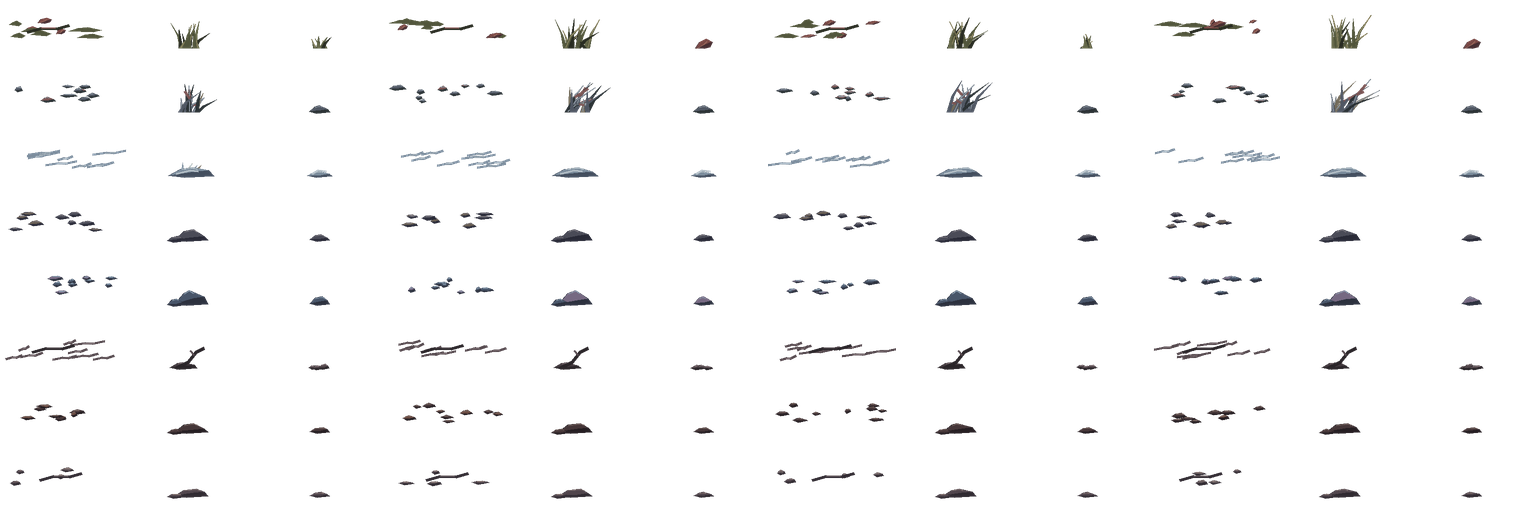
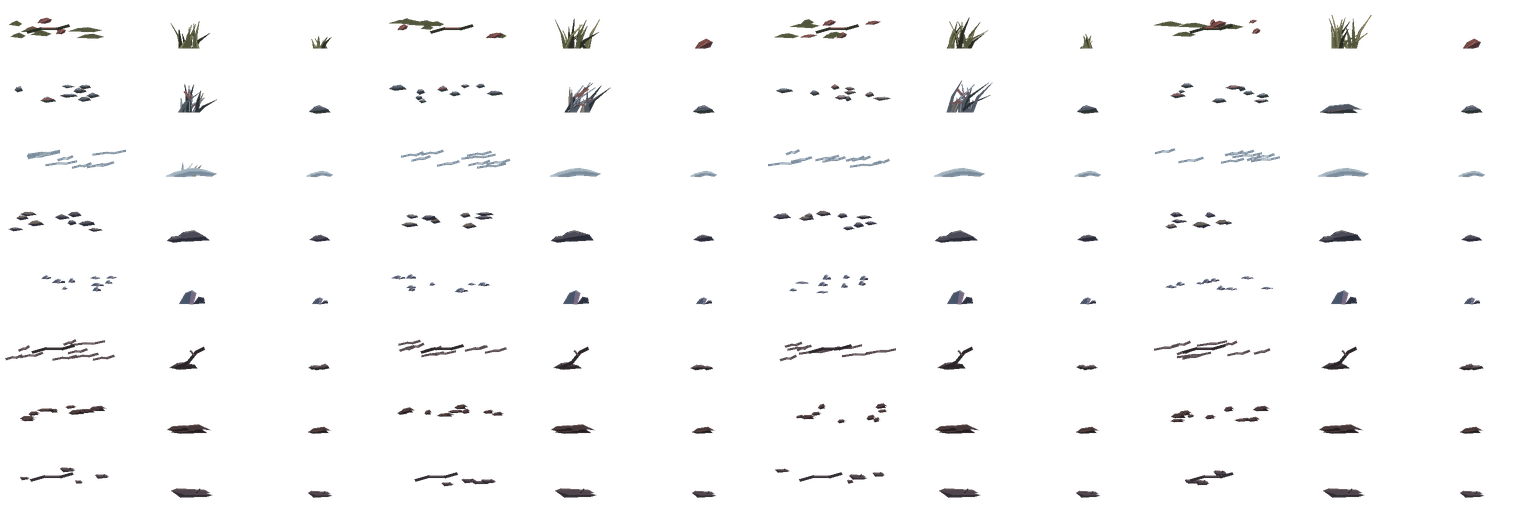
Refine mineral silhouettes and verify reactions on ordinary solid ground

diff --git a/tests/browser-surface-dressing.js b/tests/browser-surface-dressing.js
@@ -6,7 +6,7 @@ const path=require('node:path');
 const {chromium}=require('playwright');
 const root=path.resolve(__dirname,'..'),output=path.join(root,'test-results/surface');
 const mime={'.html':'text/html','.js':'text/javascript','.webp':'image/webp','.png':'image/png',
-  '.ttf':'font/ttf','.json':'application/json','.svg':'image/svg+xml'};
+  '.css':'text/css','.ttf':'font/ttf','.json':'application/json','.svg':'image/svg+xml'};
 const server=http.createServer(async(req,res)=>{
   const url=new URL(req.url,'http://localhost');
   const file=path.resolve(root,'.'+(url.pathname==='/'?'/index.html':url.pathname));
@@ -26,8 +26,11 @@ async function exercise(browser,renderer,width,height,enabled){
     // Same release, same inputs. The control removes only this optional visual module.
     if(!enabled)await page.route('**/surface-dressing.js*',route=>route.fulfill({body:'',contentType:'text/javascript'}));
     await page.goto('http://127.0.0.1:'+server.address().port+'/?seed=33');
-    await page.waitForFunction(()=>window.GRIM_FRONTEND?.ready&&
-      window.grimRun?.scene.scenes[0]?.motionArt?.runReady,null,{timeout:90000});
+    await page.waitForFunction(()=>{
+      const s=window.grimRun?.scene.scenes[0];
+      return window.GRIM_FRONTEND?.ready&&s?.visuals?.reaperReady&&s.visuals.loaded&&
+        s.motionArt?.runReady&&s.motionArt.forwardReady&&s.motionArt.airCutReady;
+    },null,{timeout:90000});
     const version=await page.evaluate(()=>{
       const g=grimRun,s=g.scene.scenes[0];s.startRun();g.loop.sleep();
       clearInterval(s.loopWatchdogId);s.sys.sceneUpdate=()=>{};
@@ -36,15 +39,29 @@ async function exercise(browser,renderer,width,height,enabled){
     assert.equal(version,renderer==='webgl'?2:1);
     const report={states:[],regions:[],timing:null};
     const tag=renderer+'-'+width;
-    for(const distance of [0,1500,3000,5500,6500,7500,8500,11000]){
+    for(const distance of [0,1500,2500,5500,6500,7500,8500,11000]){
       if(distance)await page.evaluate(m=>{
         const s=grimRun.scene.scenes[0];s.godMode=true;s.state='teleportConfirm';
         if(!s.teleportForTesting(m))throw Error('Could not reach '+m);
+        // Some practice markers land on a one-way island. Review the nearest actual trail.
+        const begin=s.player.x;let x=begin;
+        const runway=x=>[0,80,160,240,320,400,480,560,640,720].every(dx=>
+          s.terrain.sectionAt(x+dx)?.kind==='ground');
+        while(x<begin+4200&&!runway(x))x+=40;
+        if(!runway(x))throw Error('No solid review stretch at '+m);
+        s.player.x=x;s.player.y=s.terrain.groundAt(x);
+        s.distance=(x-s.startX)/GRIM_CONFIG.pxPerMeter;
+        s.cameraX=x-s.width*GRIM_CONFIG.reaperXRatio;s.cameraY=s.player.y-s.groundY;
+        s.syncWorldScroll();s.drawScene();
       },distance);
       await page.waitForFunction(()=>{
         const s=grimRun.scene.scenes[0];return s.terrainMaterialIds.has((s.distance<900?'forest':s.distance<2300?'foothills':s.distance<5000?'tundra':s.distance<6000?'caves':
            s.distance<7000?'crystals':s.distance<8000?'ashlands':s.distance<9999?'lava':'boss'));
       },null,{timeout:30000});
+      if(enabled){
+        await page.evaluate(()=>{const s=grimRun.scene.scenes[0];s.drawScene();grimRun.step(performance.now(),0);});
+        await page.screenshot({path:path.join(output,tag+'-'+distance+'.png')});
+      }
       const frames=await page.evaluate(()=>{
         const s=grimRun.scene.scenes[0],d=s.surfaceDressing;
         const states=[],ids=new Set();let maxVisible=0,grass=0,snow=0,loose=0;
@@ -68,9 +85,10 @@ async function exercise(browser,renderer,width,height,enabled){
         return {states,region:{ids:[...ids],maxVisible,grass,loose,snow,slots:d?.slots.length||0}};
       });
       report.states.push(...frames.states);report.regions.push(frames.region);
-      if(enabled)await page.screenshot({path:path.join(output,tag+'-'+distance+'.png')});
+
     }
     if(enabled){
+      console.log(tag+' materials',JSON.stringify(report.regions));
       assert.equal(new Set(report.regions.flatMap(r=>r.ids)).size,8);
       assert(report.regions[0].grass>0,'Forest contact bends grass');
       assert(report.regions[2].snow>0,'Tundra kicks existing snow');
@@ -99,6 +117,19 @@ async function exercise(browser,renderer,width,height,enabled){
           await page.screenshot({path:path.join(output,'forest-'+String(i).padStart(2,'0')+'.png')});
         }
       }
+      const lifecycle=await page.evaluate(()=>{
+        const s=grimRun.scene.scenes[0],d=s.surfaceDressing;
+        s.startRun();grimRun.loop.sleep();s.setGodMode(true);
+        for(let i=0;i<255;i++)s.update(0,34);
+        const rewound=s.rewind();for(let i=0;i<100&&s.state==='rewinding';i++)s.update(0,34);
+        const restored=s.state==='playing';
+        const group=s.terrain.sequences[0];s.player.x=group.startX+40;
+        s.player.y=s.terrain.anchorAt(s.player.x)+500;s.rescueFromAbyss();s.drawScene();
+        const gapClear=d.slots.every(slot=>!slot.patch||s.terrain.sectionAt(slot.patch.frontX)?.kind==='ground');
+        const didFall=s.state==='respawning';s.finishAbyssRespawn();
+        return {rewound,restored,gapClear,didFall,recovered:s.state==='playing'};
+      });
+      assert(Object.values(lifecycle).every(Boolean),JSON.stringify(lifecycle));
       await page.emulateMedia({reducedMotion:'reduce'});
       const quiet=await page.evaluate(()=>{
         const s=grimRun.scene.scenes[0];s.startRun();grimRun.loop.sleep();

diff --git a/tests/browser-biome-midground.js b/tests/browser-biome-midground.js
@@ -312,8 +312,12 @@ async function parity(browser) {
     });
   });
   // Both builds use the original far plate so this remains a pixel check of the Forest renderer.
-  const first = await use({routes: page => page.route('**/biomes/forest-ravine-v1.webp',
-    route => route.fulfill({path: path.join(root, 'assets/visuals/biomes/forest.webp'), contentType: 'image/webp'}))}, forest);
+  const first = await use({routes: async page => {
+    // The accepted reference predates the surface pass. Compare the midground alone.
+    await page.route('**/surface-dressing.js*', route => route.fulfill({body: '', contentType: 'text/javascript'}));
+    await page.route('**/biomes/forest-ravine-v1.webp',
+      route => route.fulfill({path: path.join(root, 'assets/visuals/biomes/forest.webp'), contentType: 'image/webp'}));
+  }}, forest);
   const old = await use({baseline: true}, forest);
   for (const [i, frame] of first.entries()) {
     writeFrame(path.join(outputs, 'forest-current-' + i + '.png'), frame);

diff --git a/assets/visuals/surface-dressing.js b/assets/visuals/surface-dressing.js
@@ -52,6 +52,7 @@
         const row=BIOMES.indexOf(id);
         if(row<0||sample(cell,193)>=DENSITY[row])continue;
         let variant=Math.floor(sample(cell,361)*4);
+        if(id==='foothills'&&sample(cell,61)<Math.min(.83,Math.max(0,(m-1050)/1450)))variant=3;
         // Frozen stalks only occur at the lower snow line.
         if(id==='tundra'&&m>2570&&variant===0)variant=2;
         const size=.80+.33*sample(cell,563);
@@ -99,7 +100,7 @@
       for(const slot of this.slots){
         const patch=slot.patch;
         if(!patch)continue;
-        const grass=patch.id==='forest'||patch.id==='foothills';
+        const grass=patch.id==='forest'||(patch.id==='foothills'&&patch.variant!==3);
         if(grass&&previousX+8<patch.x&&p.x+8>=patch.x)patch.rearHit=s.elapsed;
         if(!patch.frontVisible)continue;
         if(patch.id==='forest'&&patch.variant%2===0){

diff --git a/scripts/paint-surface-dressing.py b/scripts/paint-surface-dressing.py
@@ -63,6 +63,37 @@ def paint(biome, variant, layer):
                 stroke([(base,y-.5),knee,(tip,top)],light,.43)
             if dry and i%4==0:
                 stroke([knee,(tip-2.4,top+2.6)],accent,1.15)
+    def snowlip(x, y, w, h):
+        # One swept cornice with a broken shaded underside and tapering tail.
+        edge=[(x-w*.53,y-.1),(x-w*.34,y-h*.52),(x-w*.11,y-h*.87),
+              (x+w*.04,y-h),(x+w*.25,y-h*.79),(x+w*.49,y-h*.29)]
+        poly(edge+[(x+w*.38,y+.2),(x+w*.05,y-.5),(x-w*.17,y+.6)],mid)
+        poly(edge+[(x+w*.16,y-h*.57),(x-w*.08,y-h*.53),(x-w*.38,y-.2)],'#9caeb9')
+        stroke(edge[1:4],light,.5)
+
+    def fragment(x, y, w, h):
+        # Split crystal with two blunt, unequal cut faces.
+        a=(x-w*.44,y-.3); b=(x-w*.22,y-h*.82); c=(x-w*.02,y-h)
+        d=(x+w*.13,y-h*.79); e=(x+w*.03,y); f=(x+w*.39,y-h*.48)
+        poly([a,b,c,d,e],mid);poly([c,d,e,(x-w*.09,y-.1)],accent)
+        poly([e,(x+w*.22,y-h*.53),f,(x+w*.42,y-.4)],dark)
+        stroke([b,c,d],light,.52)
+        stroke([(x+w*.22,y-h*.53),f],mid,.55)
+
+    def slab(x, y, w, h, masonry=False):
+        # Joint-broken flagstone has a squared arris. Basalt breaks in long thin plates.
+        left=x-w*.5
+        if masonry:
+            face=[(left,y-h*.66),(left+w*.14,y-h),(left+w*.79,y-h*.81),
+                  (left+w*.92,y-h*.45),(left+w*.84,y-h*.36),(left+w*.98,y-h*.13)]
+        else:
+            face=[(left,y),(left+w*.22,y-h*.74),(left+w*.64,y-h),
+                  (left+w*.94,y-h*.27),(left+w*.72,y-h*.37)]
+        poly(face+[(left+w*.84,y+.3),(left+w*.23,y+.7)],dark)
+        poly(face+[(left+w*.31,y-h*.18)],mid)
+        stroke(face[1:3],light,.5)
+        if masonry: stroke([(left+w*.68,y-h*.83),(left+w*.6,y-h*.37)],dark,.62)
+        else: stroke([(left+w*.19,y-.15),(left+w*.55,y-h*.33)],accent,.55)
     if layer == 0:  # Material lying on the inclined shoulder.
         for _ in range(9 if biome != 7 else 4):
             x,y = rng.uniform(6,58),rng.uniform(11,19)
@@ -74,21 +105,24 @@ def paint(biome, variant, layer):
             elif biome in (2,5):
                 stroke([(x-w,y+1),(x-w*.15,y),(x+w*.28,y+.2),(x+w,y-1.1)],mid,1.15)
                 stroke([(x-w*.24,y+.2),(x+w*.38,y-.3)],light,.47)
+            elif biome==4: fragment(x,y,w,rng.uniform(1.2,2.5))
+            elif biome in (6,7): slab(x,y,w*1.2,rng.uniform(1,2.2),biome==7)
             else: chip(x,y,w,rng.uniform(1,2.2),accent if rng.random()<.35 else mid)
         if biome in (0,5,7):
             x=rng.uniform(13,24)
             stroke([(x,16),(x+7,14),(x+15,14.3),(x+21,12.4)],dark,1.5)
             stroke([(x+7,13.8),(x+14,14)],accent,.65)
     elif biome in (0,1):
-        if layer==1 or (biome==0 and variant%2==0):
+        if biome==1 and layer==1 and variant==3:
+            slab(31,24,22,4.3)
+        elif layer==1 or (biome==0 and variant%2==0):
             grass(32,24, (14+variant*.9) if layer==1 else 7, 6 if layer==1 else 3,
                   14 if layer==1 else 6,dry=biome==1)
         elif biome==0: leaf(32,24,9,4.8)
         else: chip(32,24,10,3.4)
     elif biome==2:
         if layer==1 and variant==0: grass(30,24,7,4,5,True)
-        chip(32,24,22 if layer==1 else 12,4.5 if layer==1 else 2.5)
-        stroke([(24 if layer==1 else 28,22.8),(31,21),(35,21.5)],'#b2bdc5',1)
+        snowlip(32,24,25 if layer==1 else 13,4.2 if layer==1 else 2.7)
     elif biome==5:
         if layer==1:
             chip(28,24,13,3.1,accent)
@@ -97,11 +131,14 @@ def paint(biome, variant, layer):
         else:
             for x in (29,31,34):
                 chip(x,24+rng.uniform(-.4,.4),rng.uniform(4,7),rng.uniform(1.4,2.4))
+    elif biome==4:
+        fragment(32,24,15 if layer==1 else 9,7 if layer==1 else 3.4)
+    elif biome in (6,7):
+        slab(32,24,21 if layer==1 else 12,4.1 if layer==1 else 2.8,biome==7)
+        if biome==6 and layer==1: slab(26,22.7,13,2.3)
     else:
-        height={3:5.5,4:7,6:4.6,7:3.8}[biome]
-        chip(32,24,16 if layer==1 else 9.5,height if layer==1 else height*.56,
-             accent if biome==4 and variant%2 else mid)
-        if layer==1: chip(24,24.5,8,height*.48)
+        chip(32,24,17 if layer==1 else 9.5,5 if layer==1 else 2.8)
+        if layer==1: chip(24,24.5,8,2.7)
     return im.resize((W*2,H*2),Image.Resampling.LANCZOS)
 
 
